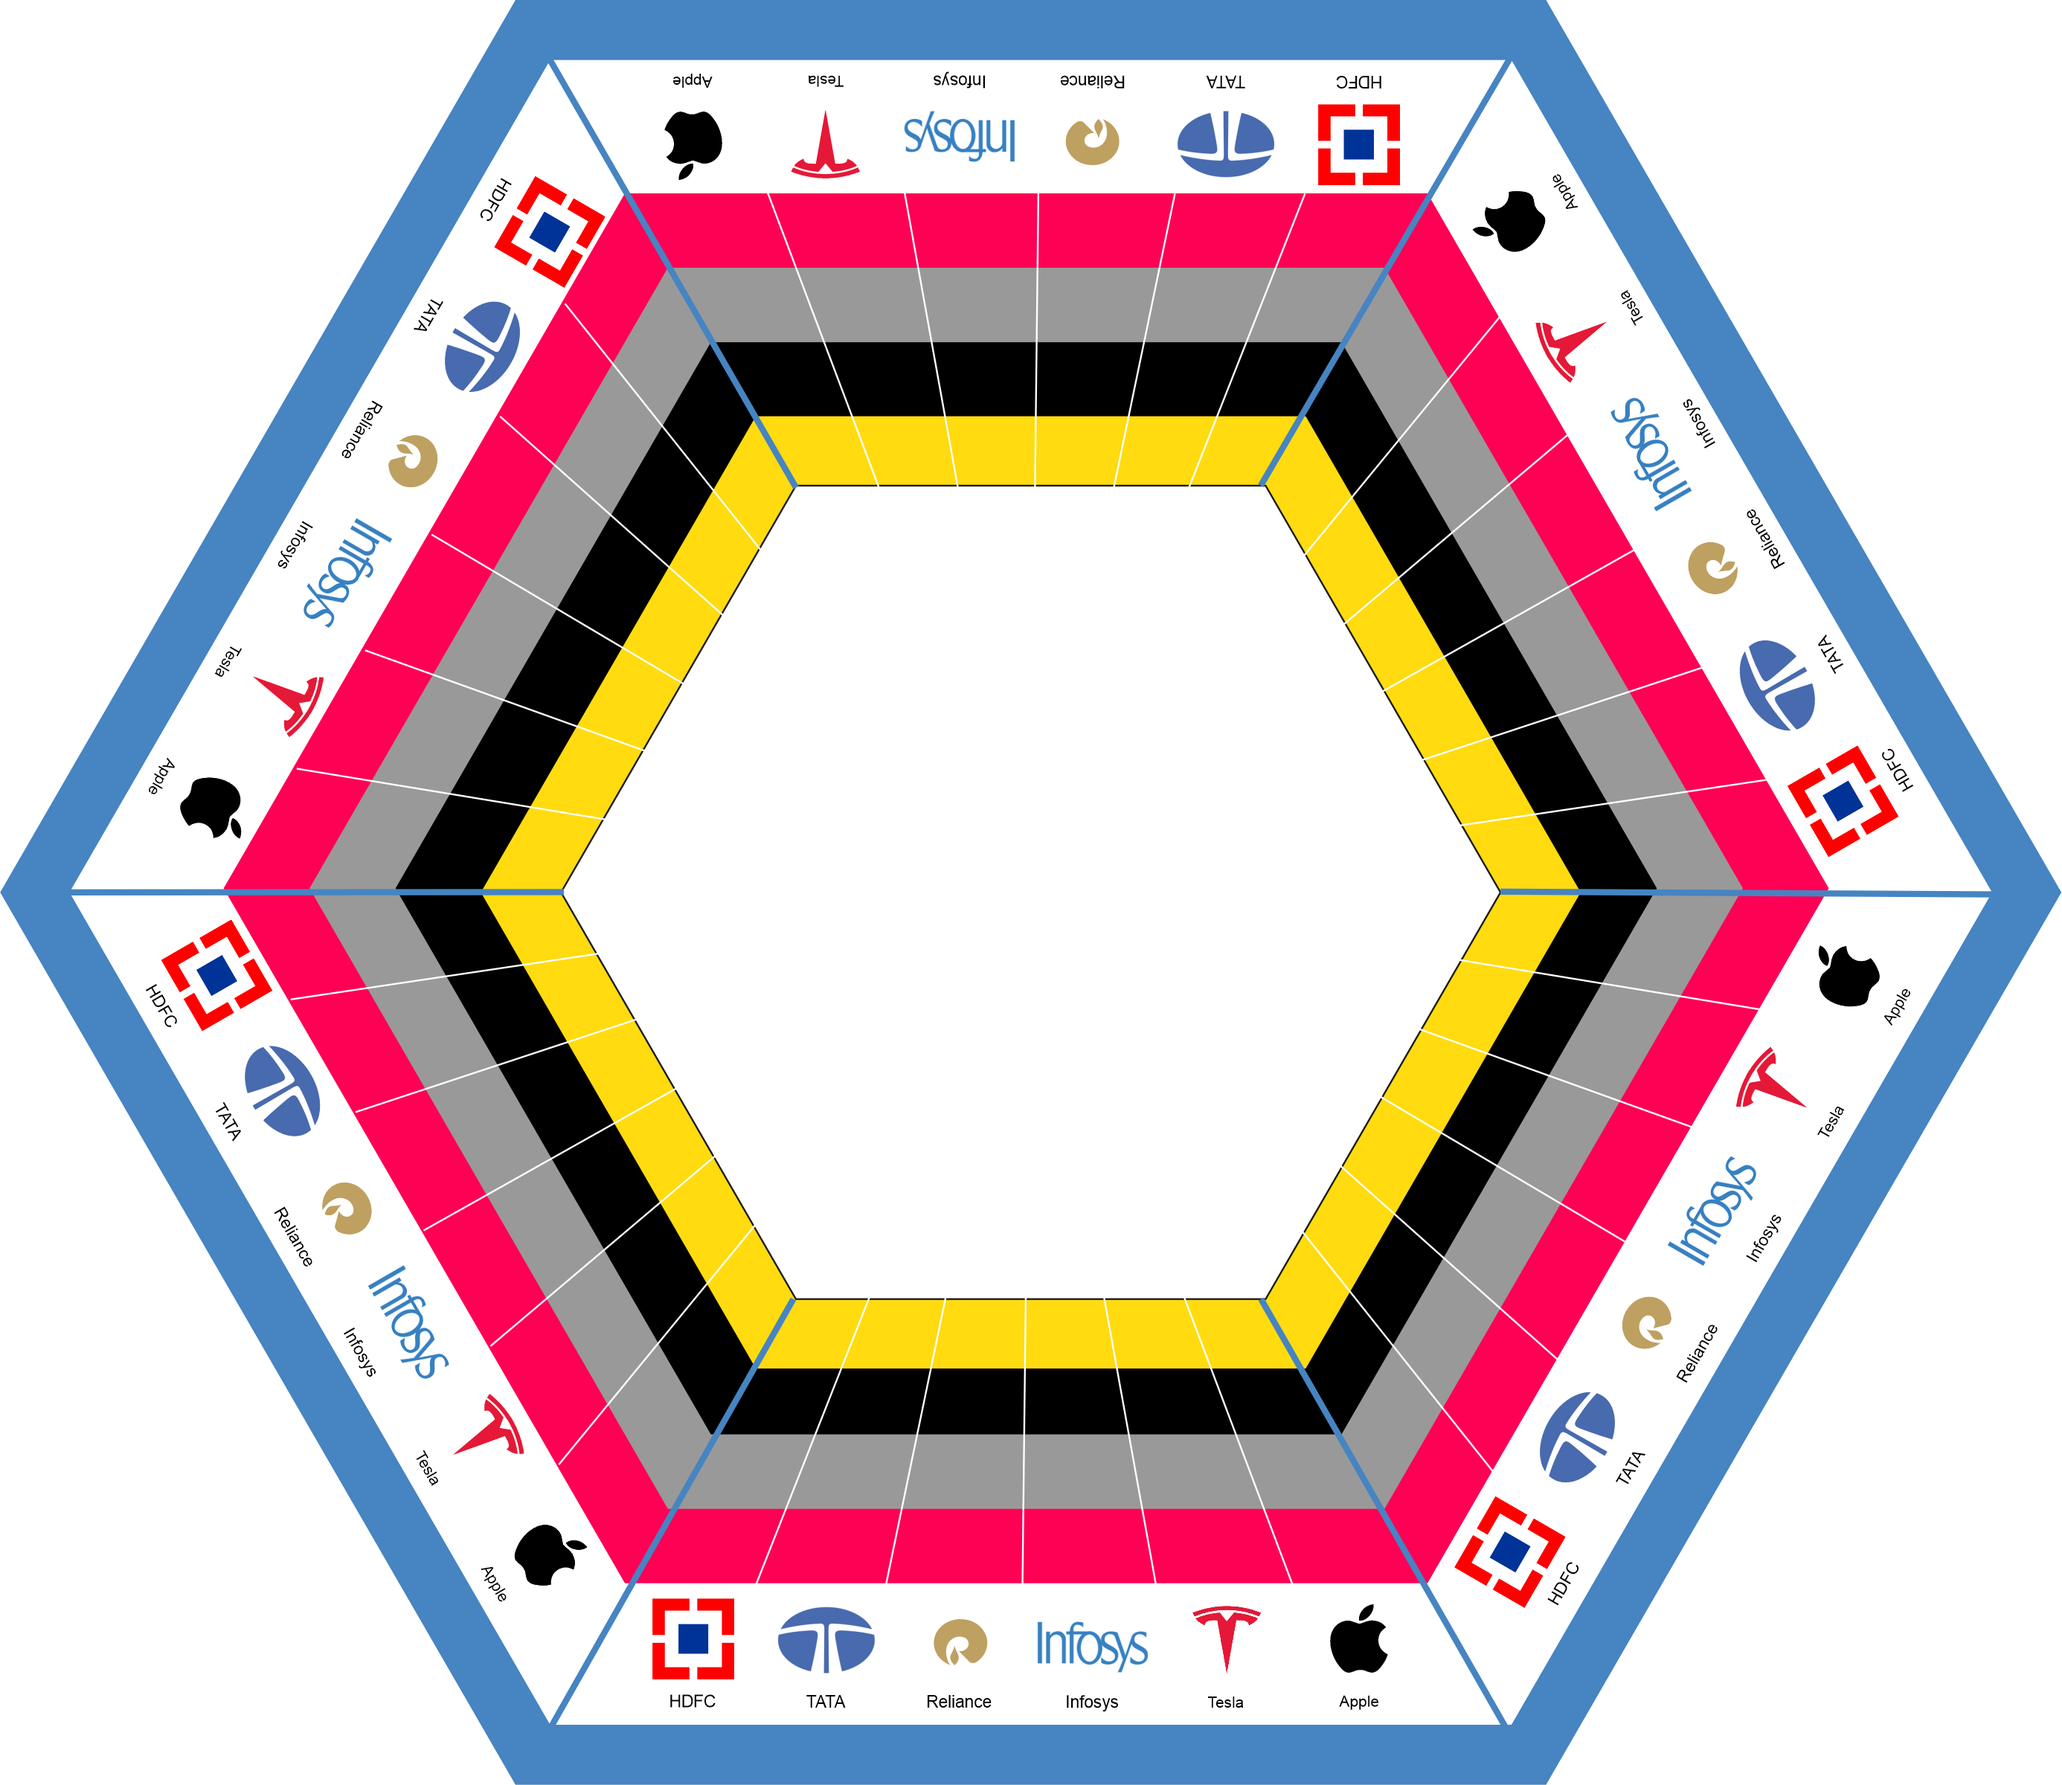
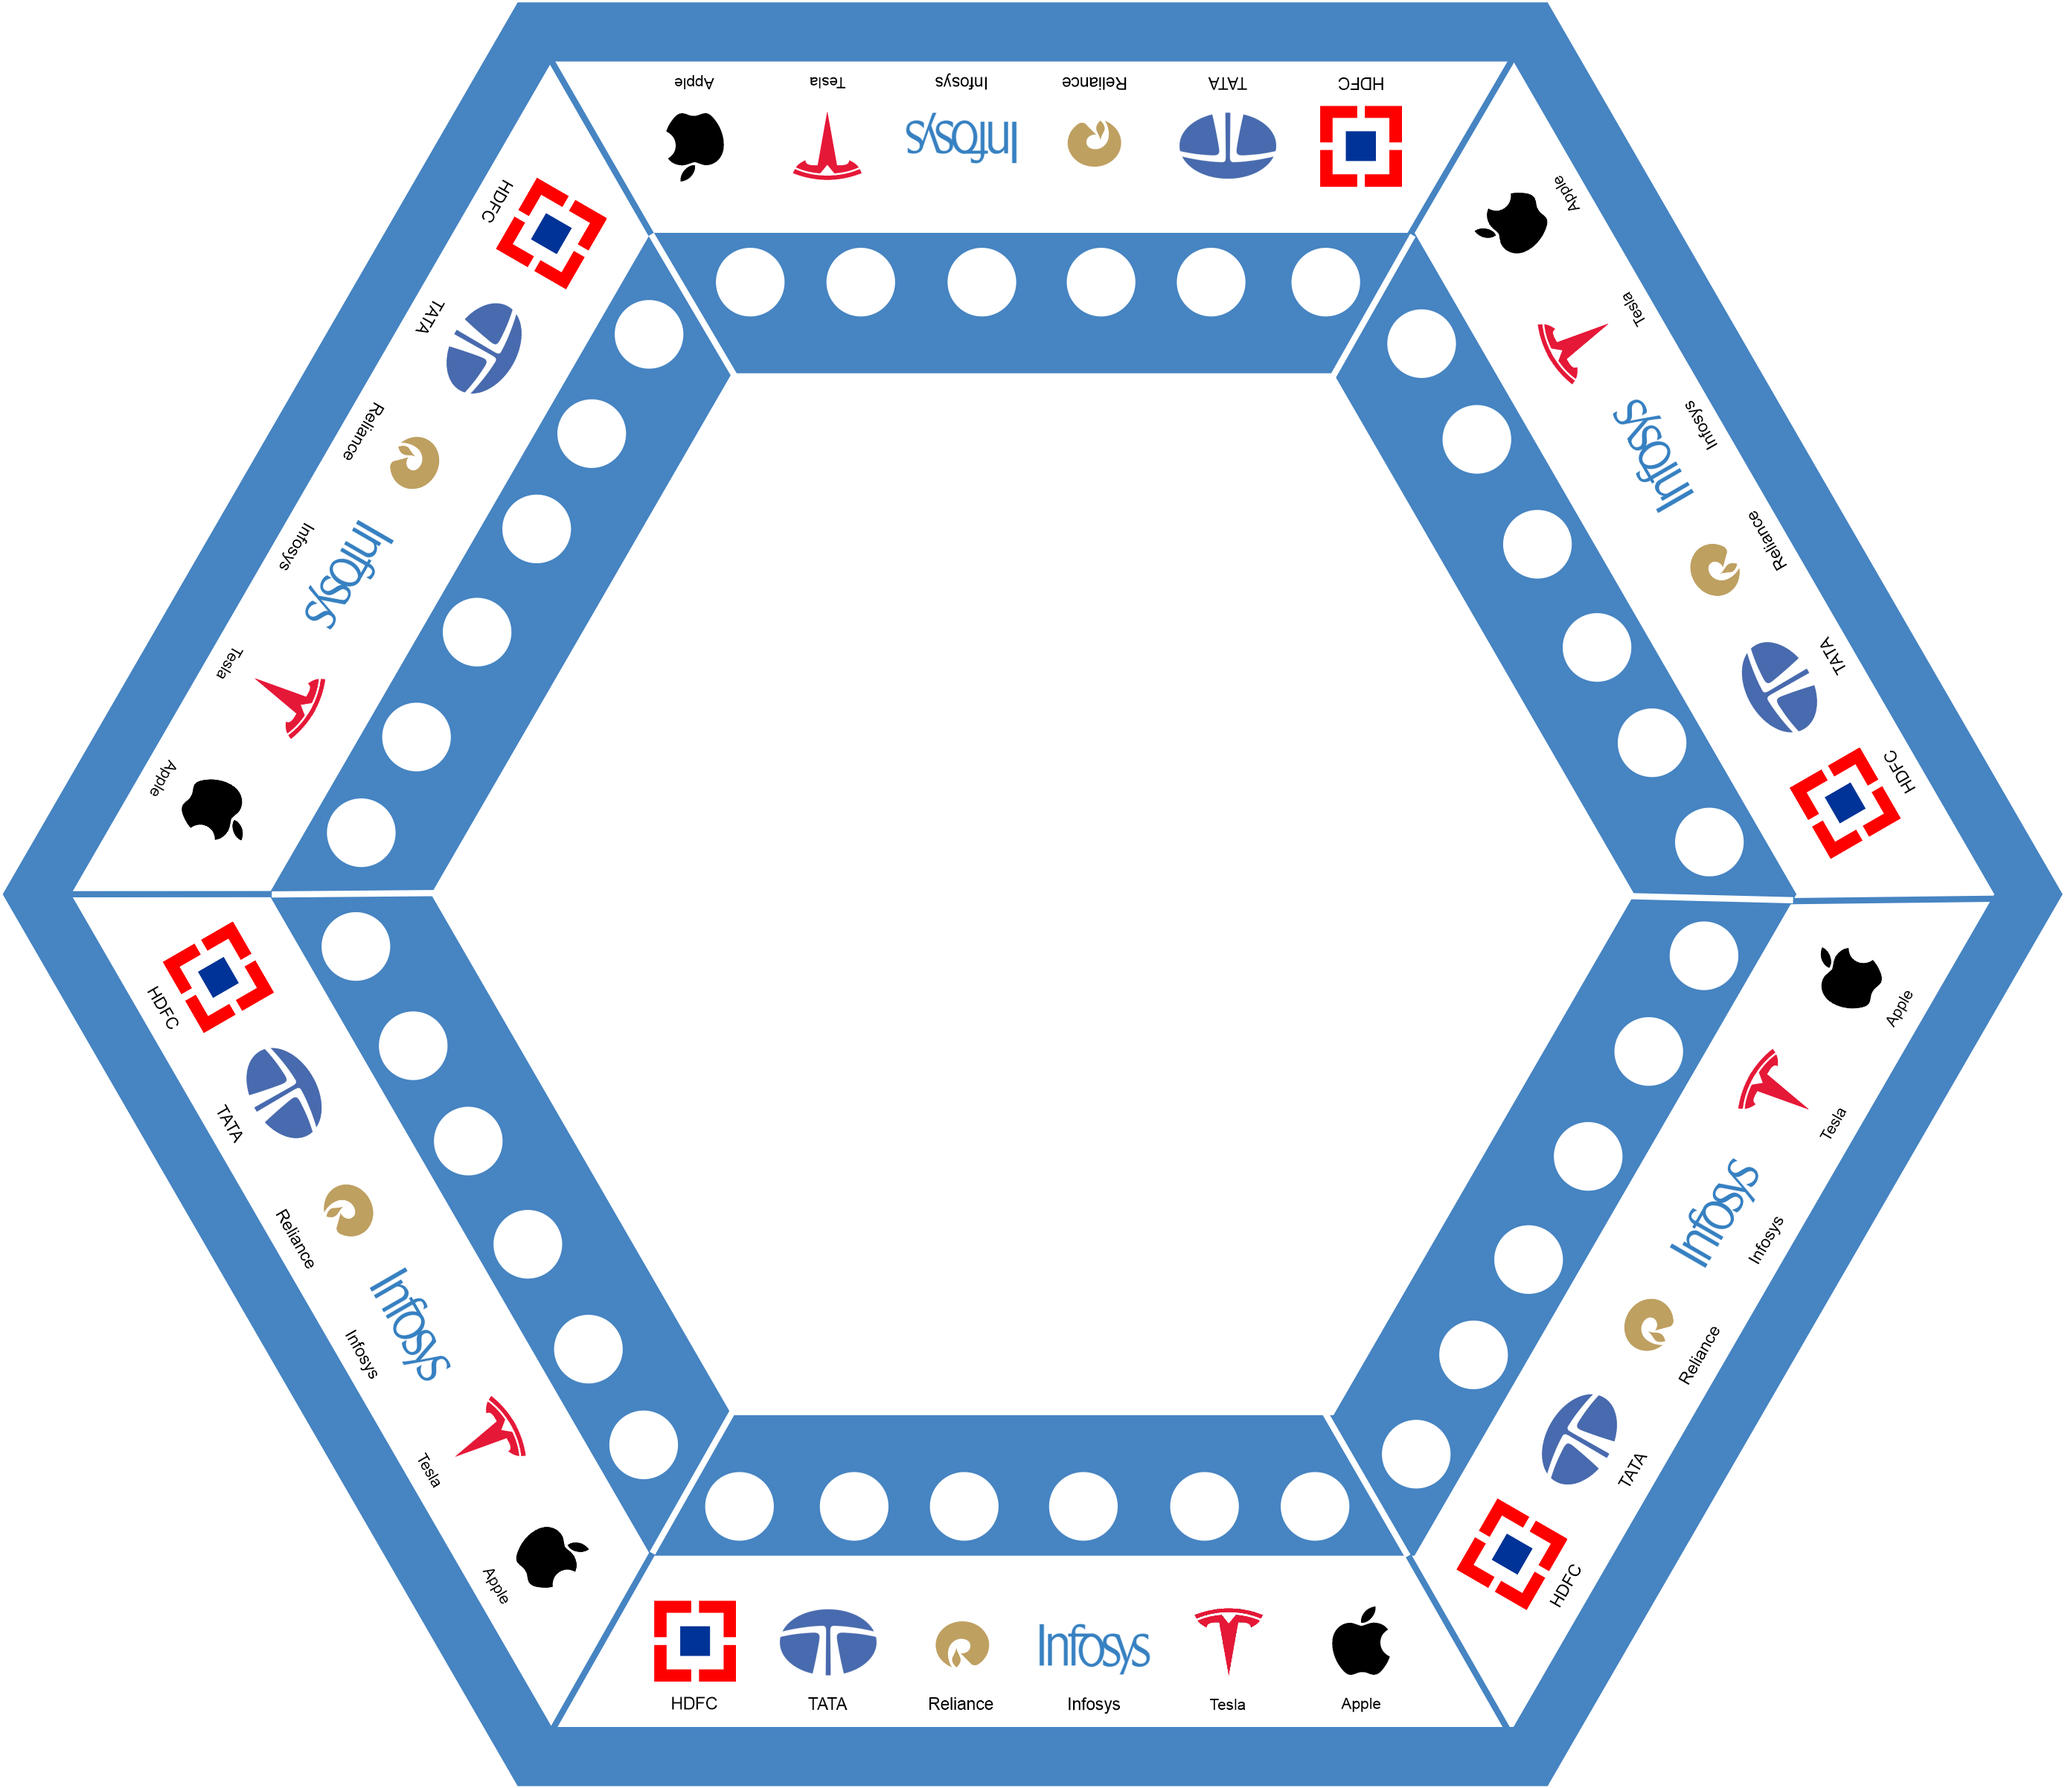
Made some minor changes

diff --git a/js/ui.js b/js/ui.js
@@ -25,23 +25,29 @@ const buyContainer = document.querySelector('.buy-container');
 const sellContainer = document.querySelector('.sell-container');
 const body = document. querySelector('body');
 const calculator = document.querySelector('#centering-container');
+const status = document.querySelector('.status');
+
 buy.addEventListener('click', () => {
     buyContainer.style.display = 'block';
     body.className = 'dark';
     calculator.style.display = 'flex';
+    status.style.right = '70rem';
 });
 sell.addEventListener('click', () => {
     sellContainer.style.display = 'block';
     body.className = 'dark';
     calculator.style.display = 'flex';
+    status.style.right = '70rem';
 });
 cross[0].addEventListener('click', () => {
     buyContainer.style.display = 'none';
     body.classList.remove('dark');
     calculator.style.display = 'none';
+    status.style.right = '3.125rem';
 });
 cross[1].addEventListener('click', () => {
     sellContainer.style.display = 'none';
     body.classList.remove('dark');
     calculator.style.display = 'none';
+    status.style.right = '3.125rem';
 });

diff --git a/index.html b/index.html
@@ -11,8 +11,8 @@
       crossorigin="anonymous"
       referrerpolicy="no-referrer"
     />
-    <link rel="stylesheet" href="calculator.css" />
-    <link rel="stylesheet" href="style.css" />
+    <link rel="stylesheet" href="css/calculator.css" />
+    <link rel="stylesheet" href="css/style.css" />
     <title>Stock Expert</title>
   </head>
   <body>
@@ -52,7 +52,7 @@
       </div>
     </header>
     <div class="hexagon">
-      <img src="img/Test-Hexagon.png" alt="" class="hexagon" />
+      <img src="img/Hexagon.png" alt="" class="hexagon" />
       <div class="input-box">
         <h2>What Would you like to do?</h2>
         <div class="btns">
@@ -201,6 +201,7 @@
       </div>
     </div>
     <div class="stock">2.5</div>
+    <noscript>You should have your javascript running</noscript>
     <script src="js/calculator.js"></script>
     <script src="js/random.js"></script>
     <script src="js/ui.js"></script>

diff --git a/css/style.css b/css/style.css
@@ -2,6 +2,7 @@
 * {
   margin: 0;
   padding: 0;
+  box-sizing: border-box;
 }
 html {
   font-size: 16px;
@@ -195,6 +196,7 @@ body .hexagon img {
   align-items: center;
   background-color: #fff;
   border-radius: 1.563rem;
+  z-index: 100;
 }
 .status h2 {
   border-bottom: 0.063rem dashed #c4c4c4;
